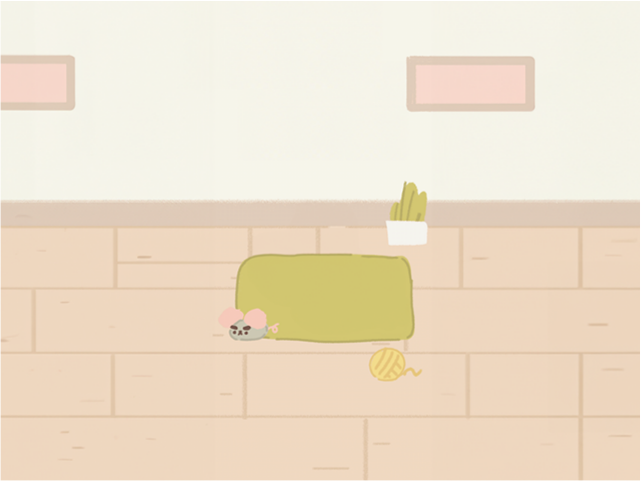
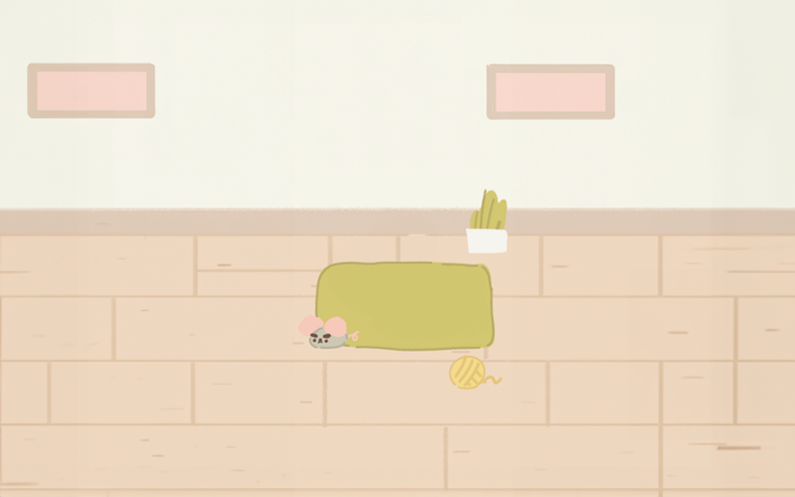
pet game 滿版

diff --git a/pages/member/petGame.js b/pages/member/petGame.js
@@ -1,10 +1,10 @@
 import React, { useState, useEffect, useRef } from 'react';
-
-const ANIMATION_DURATION = 1000;
 const OFFSET_X = 300;
 const OFFSET_Y = 200;
 
 export default function PetGame() {
+  const lastImageSwitchTime = useRef(null);
+  const [moveImageIndex, setMoveImageIndex] = useState(0);
   const [direction, setDirection] = useState('right');
   const [position, setPosition] = useState({ x: 0, y: 0 });
   const [targetPosition, setTargetPosition] = useState({ x: 0, y: 0 });
@@ -12,7 +12,11 @@ export default function PetGame() {
   const background = useRef(null);
   const startAnimationTime = useRef(null);
   const [isResting, setIsResting] = useState(false);
+  const [moveCount, setMoveCount] = useState(0);
   const [isMoving, setIsMoving] = useState(false);
+  const [isCatVisible, setIsCatVisible] = useState(false);
+  // 將 ANIMATION_DURATION 搬到 state
+  const [animationDuration, setAnimationDuration] = useState(50);
 
   useEffect(() => {
     let restTimeout = null;
@@ -25,8 +29,17 @@ export default function PetGame() {
       const minY = rect.top + OFFSET_X;
       const maxY = rect.bottom - OFFSET_Y;
 
-      const targetX = Math.random() * (maxX - minX) + minX;
-      const targetY = Math.random() * (maxY - minY) + minY;
+      let targetX;
+      let targetY;
+      if (moveCount === 0) {
+        // 如果 moveCount 為 1，則將目標設為中心
+        targetX = rect.width / 2 - 100;
+        targetY = rect.height / 2;
+      } else {
+        // 如果不是，就隨機位置
+        targetX = Math.random() * (maxX - minX) + minX;
+        targetY = Math.random() * (maxY - minY) + minY;
+      }
 
       setTargetPosition((prevPos) => ({ ...prevPos, x: targetX, y: targetY }));
 
@@ -39,7 +52,15 @@ export default function PetGame() {
         }
 
         const timeElapsed = animationTime - startAnimationTime.current;
-        const progress = Math.min(timeElapsed / ANIMATION_DURATION, 1);
+        const progress = Math.min(timeElapsed / animationDuration, 1);
+
+        if (
+          !lastImageSwitchTime.current ||
+          animationTime - lastImageSwitchTime.current > 100
+        ) {
+          setMoveImageIndex((prevIndex) => (prevIndex + 1) % 2);
+          lastImageSwitchTime.current = animationTime;
+        }
 
         // Calculate new position
         const newPosition = {
@@ -60,12 +81,22 @@ export default function PetGame() {
         } else {
           setIsAnimating(false);
           startAnimationTime.current = null;
+          lastImageSwitchTime.current = null;
           setIsMoving(false);
           setIsResting(true);
-          restTimeout = setTimeout(
-            () => setIsResting(false),
-            Math.random() * 2000 + 1000
-          );
+          setMoveCount((prevCount) => prevCount + 1);
+          if (moveCount === 1) {
+            setIsCatVisible(true);
+            setAnimationDuration(1000);
+          }
+          if (moveCount < 1) {
+            setIsResting(false);
+          } else {
+            restTimeout = setTimeout(
+              () => setIsResting(false),
+              Math.random() * 2000 + 1000
+            );
+          }
         }
       };
 
@@ -77,13 +108,19 @@ export default function PetGame() {
 
   return (
     <div className="background" ref={background}>
-      <Cat position={position} direction={direction} isMoving={isMoving} />{' '}
-      {/* Changes here */}
+      {isCatVisible && (
+        <Cat
+          position={position}
+          direction={direction}
+          isMoving={isMoving}
+          moveImageIndex={moveImageIndex}
+        />
+      )}
     </div>
   );
 }
 
-const Cat = ({ position, direction, isMoving }) => {
+const Cat = ({ position, direction, isMoving, moveImageIndex }) => {
   const petStyle = {
     position: 'absolute',
     left: position.x,
@@ -92,8 +129,8 @@ const Cat = ({ position, direction, isMoving }) => {
     transform: direction === 'left' ? 'scaleX(-1)' : 'scaleX(1)',
   };
   const imageSource = isMoving
-    ? '/pet_game/cat_move.png'
-    : '/pet_game/cat_idle.png'; // Changes here
+    ? `/pet_game/cat_move0${moveImageIndex + 1}.png`
+    : '/pet_game/cat_idle.png';
 
   return <img src={imageSource} style={petStyle} alt="pet" />;
 };

diff --git a/styles/styleguide.css b/styles/styleguide.css
@@ -151,9 +151,9 @@ body{
 /* -------------------- */
 .background{
   width: 100%;
-  height: 780px; 
+  height: 740px; 
   background-image: url("/pet_game/background.png");  
-  background-repeat: no-repeat;
+  background-repeat:repeat-x;
   background-size: contain;
   background-position: 50% 50%;
 }
@@ -162,6 +162,7 @@ body{
   position: absolute;
   transition: all 1s ease-out;
 }
+
 
 
 /* -------------------- */
